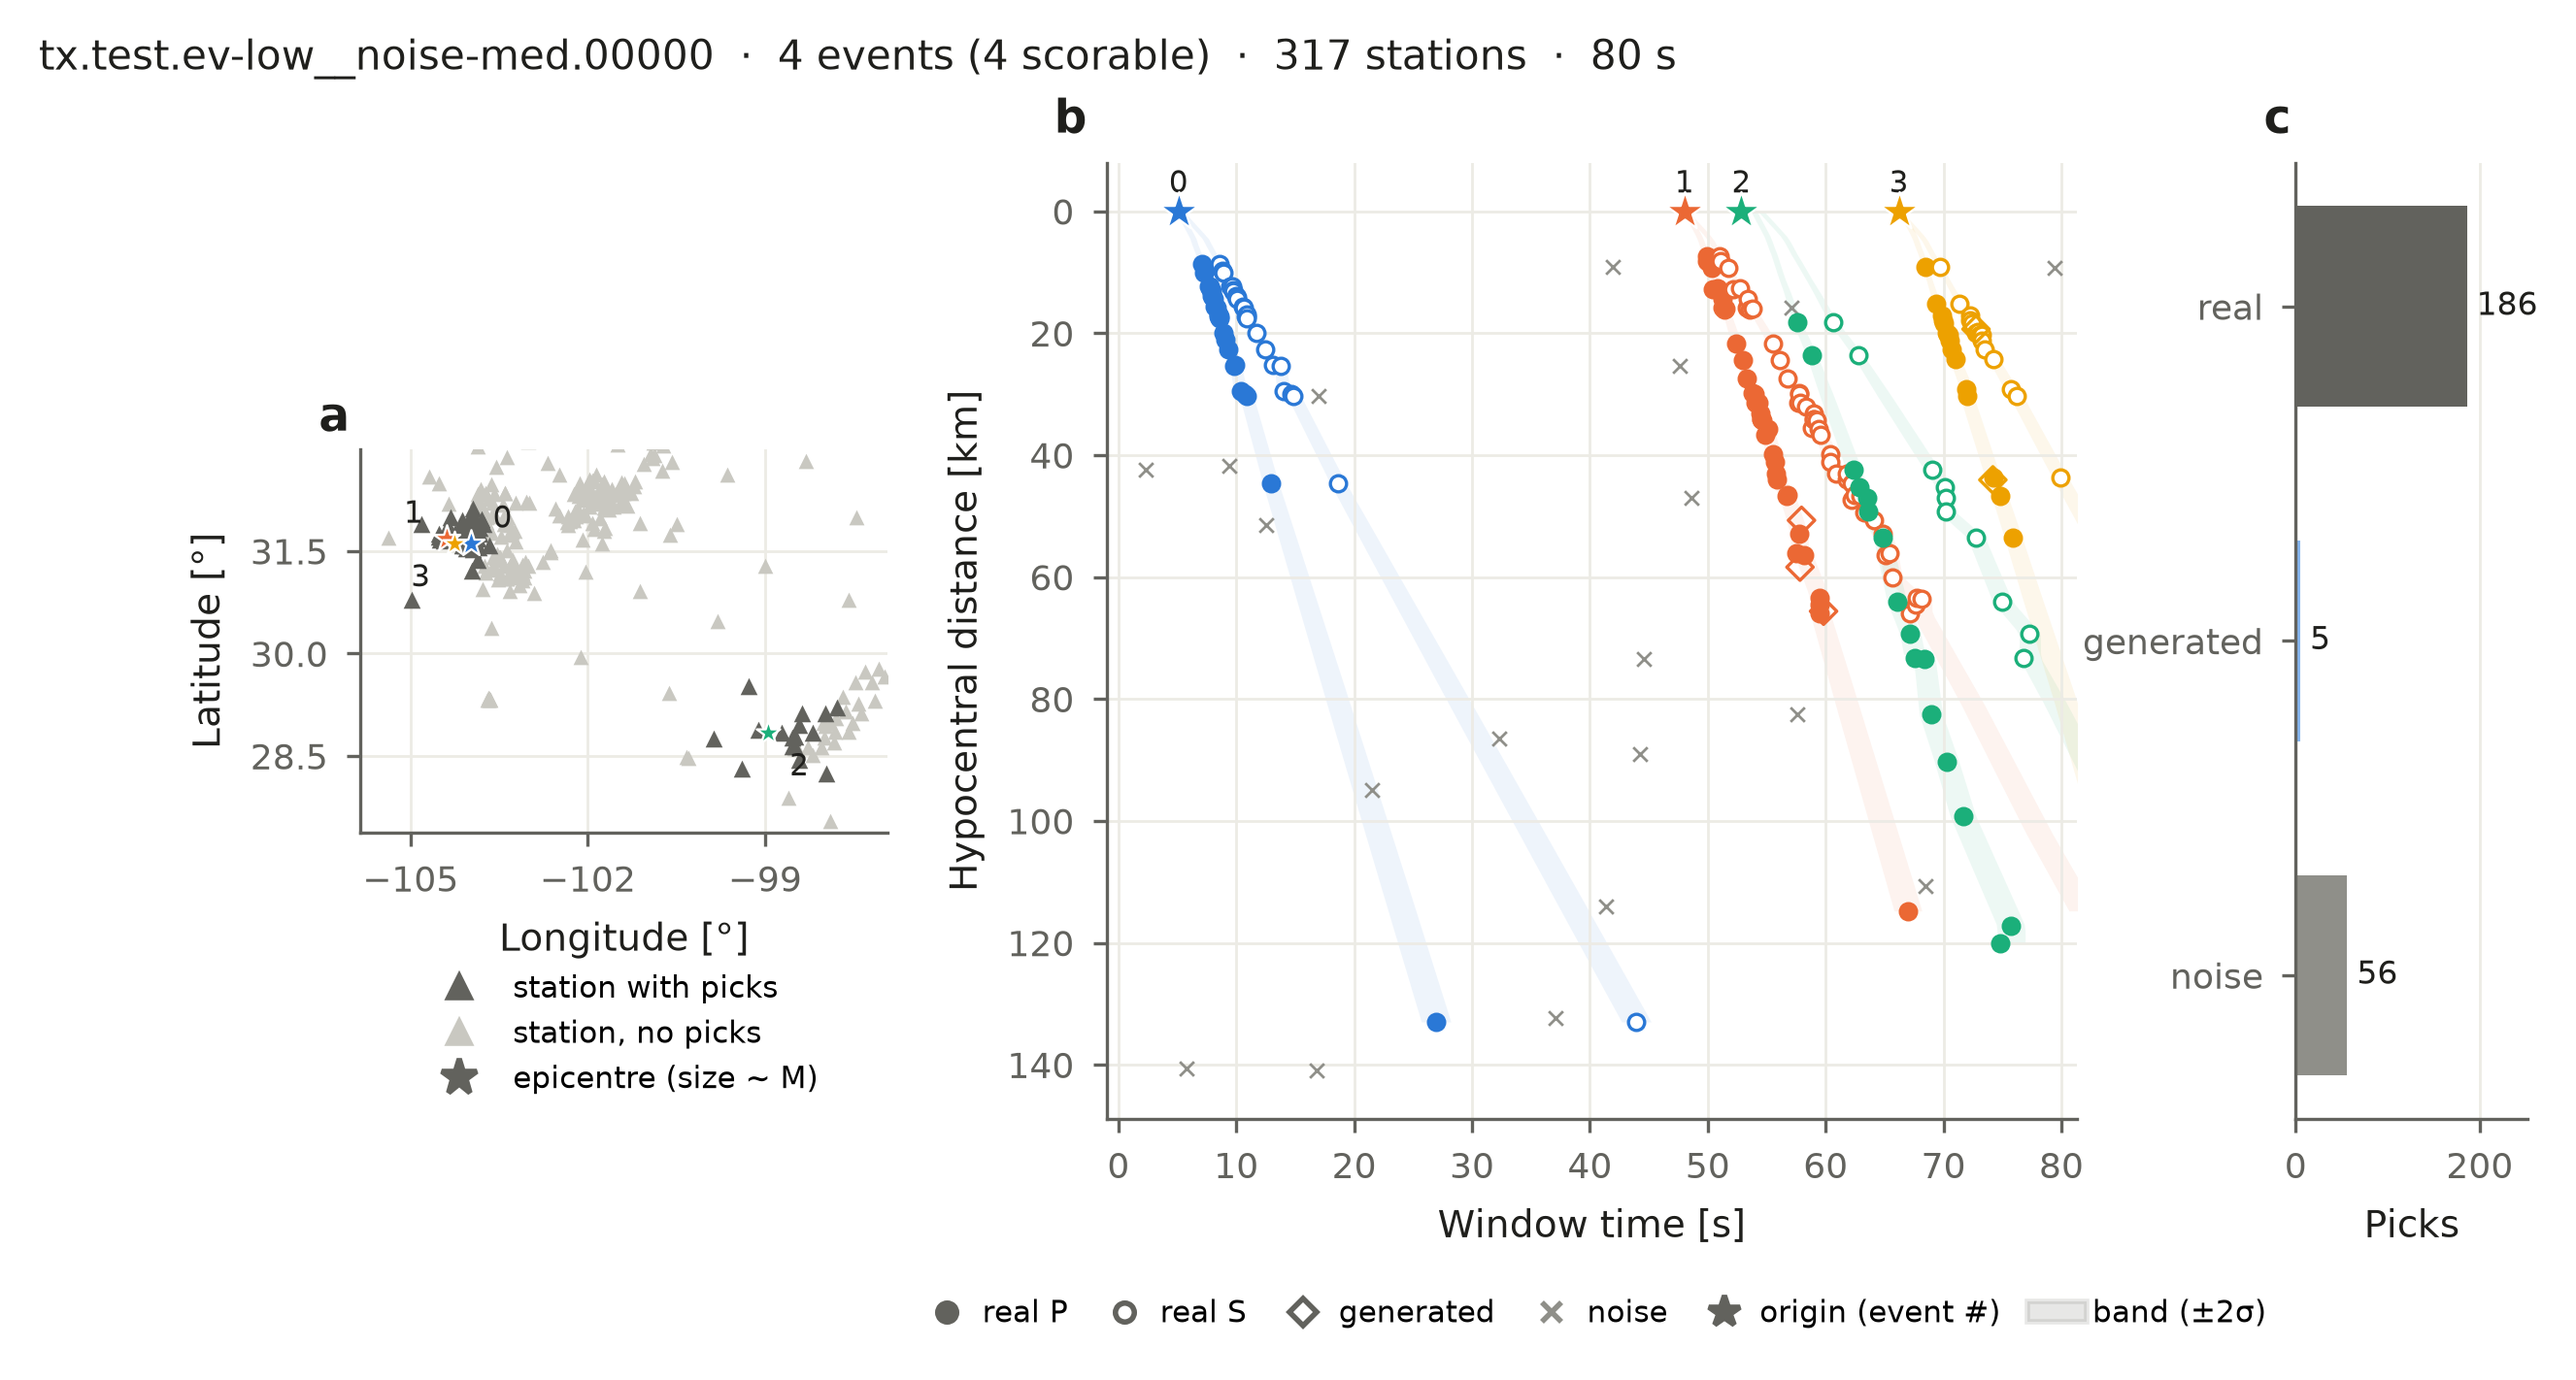
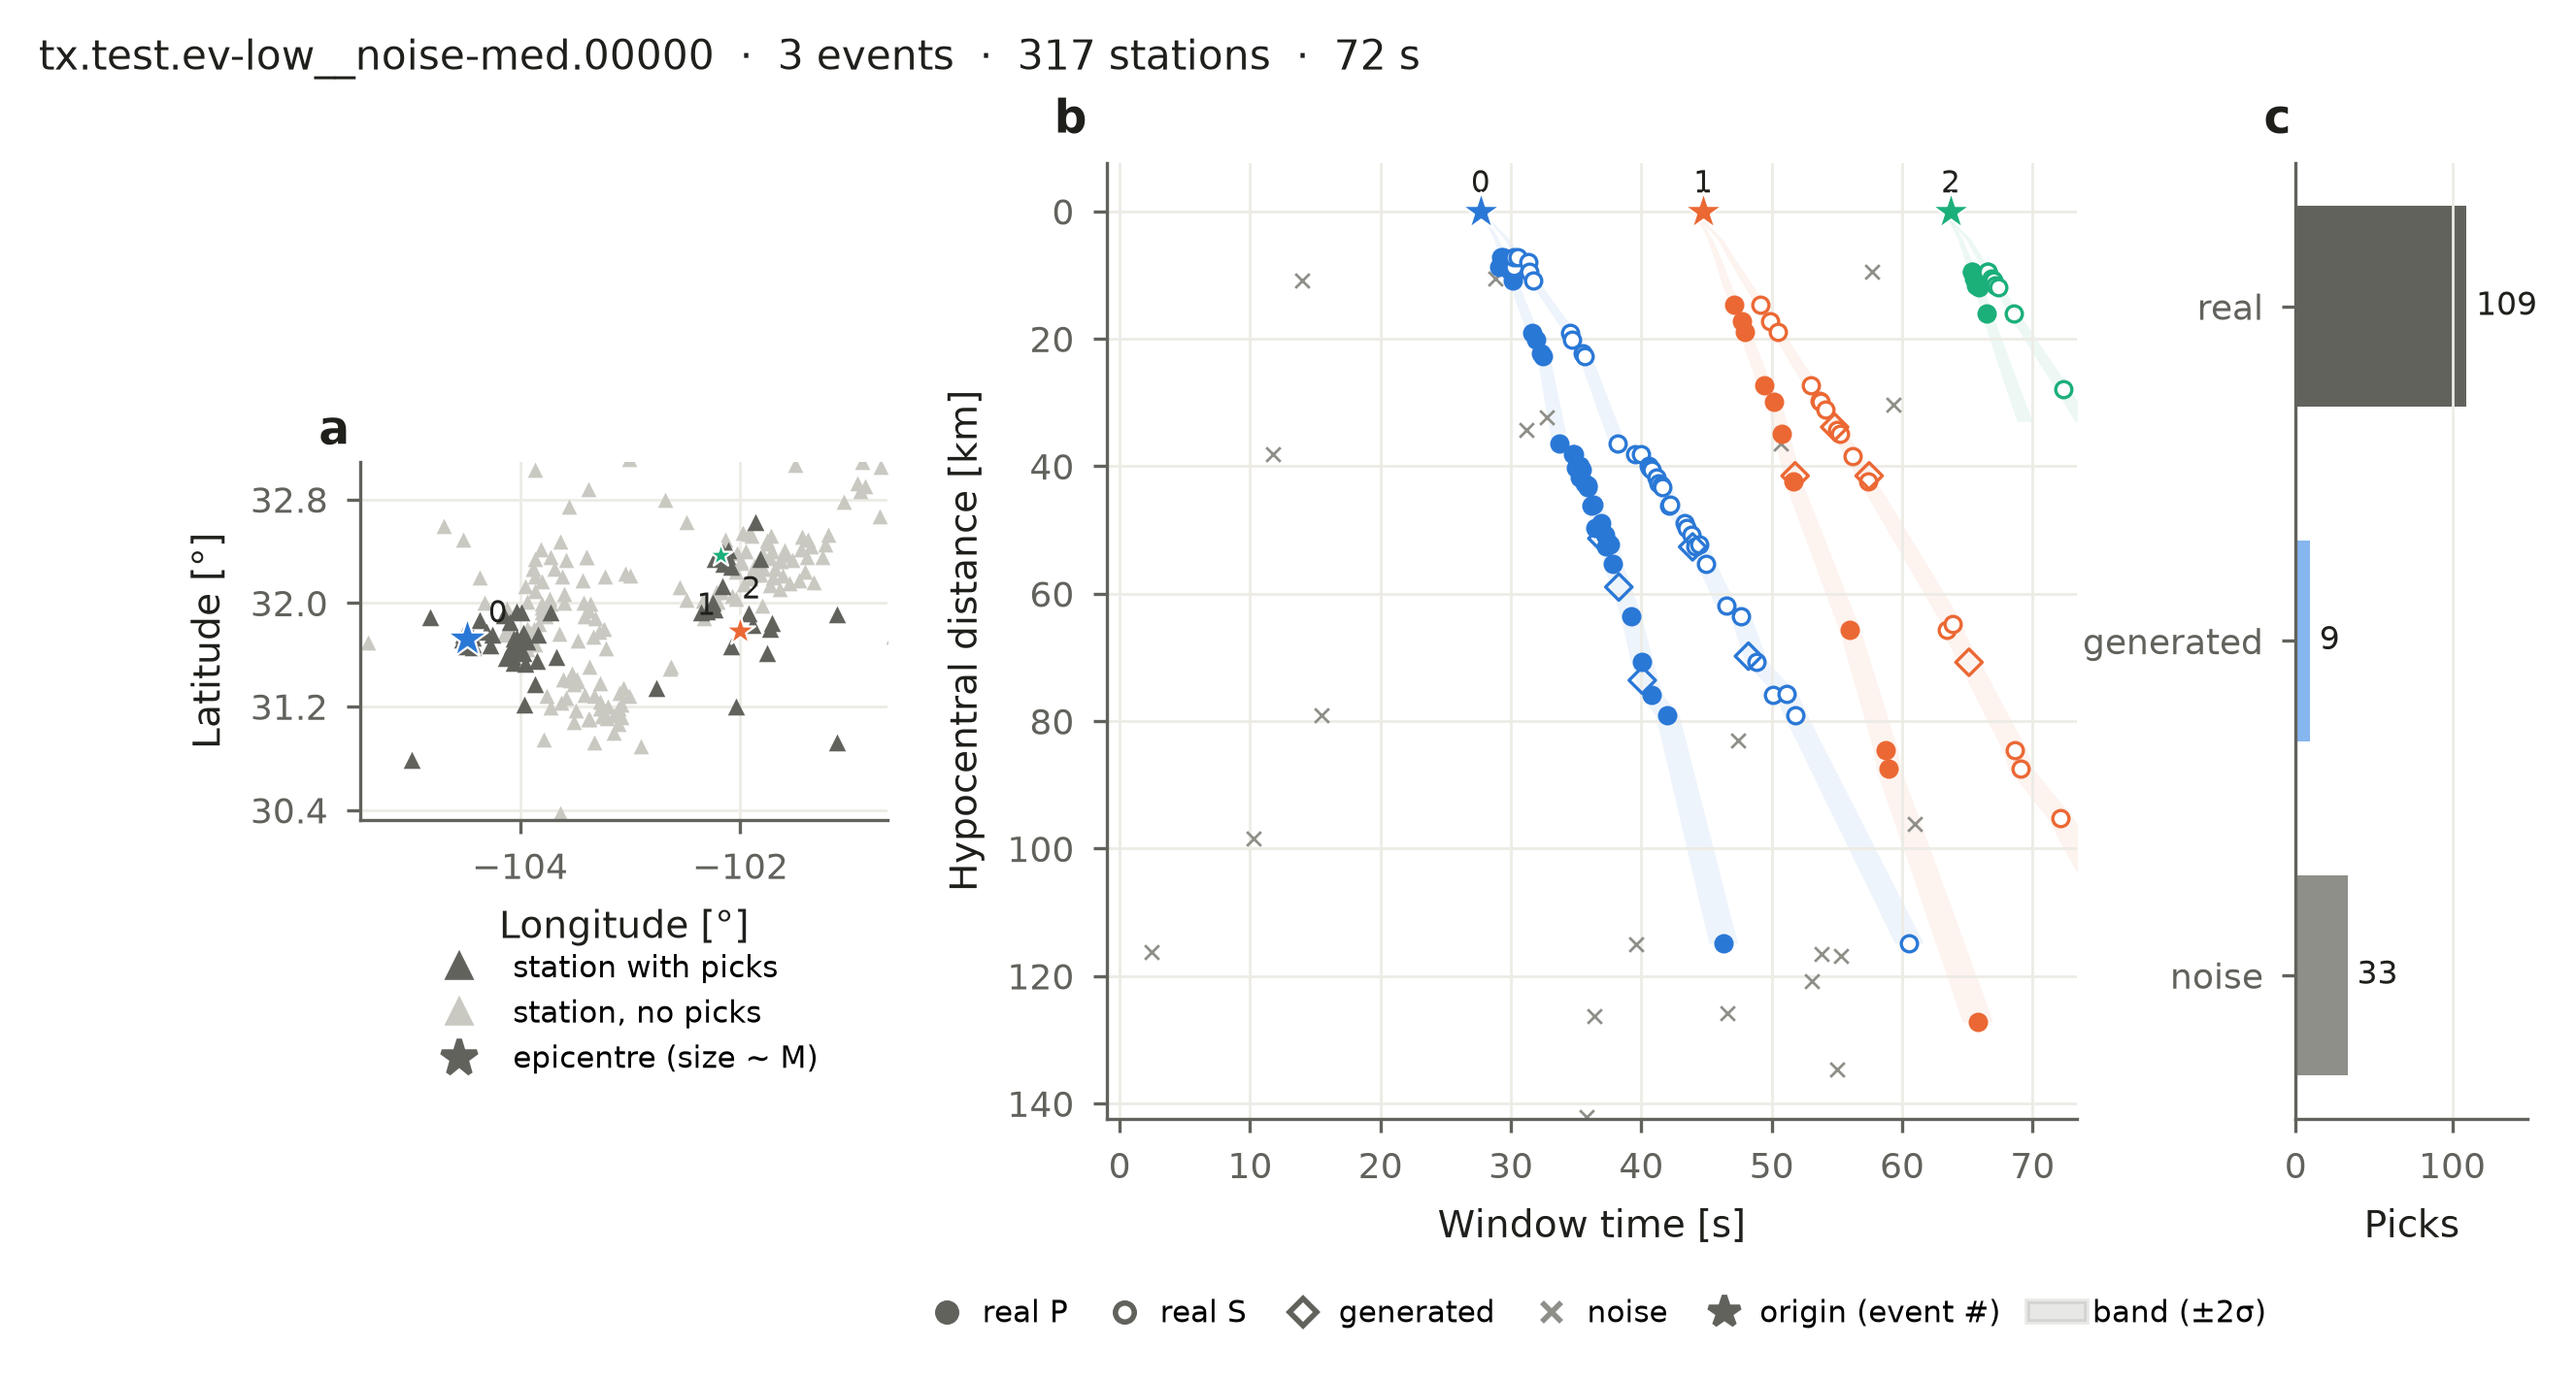
README links, license field

diff --git a/README.md b/README.md
@@ -4,7 +4,7 @@ A phase associator groups the P and S picks of a seismic network into earthquake
 thousands of association problems built from **real earthquakes and real picks**
 ([UTDQuake](https://huggingface.co/datasets/ecastillot/UTDQuake)), with the answer for every pick.
 
-![a BEPAD window](docs/figures/window_anatomy_tx.png)
+![a BEPAD window](https://raw.githubusercontent.com/ecastillot/BEPAD/main/docs/figures/window_anatomy_tx.png)
 
 *One window (Texas network): (a) earthquakes and stations, (b) every pick at its distance from
 its earthquake, (c) picks by type.*
@@ -34,7 +34,7 @@ bepad submit results/my-method --code associators/my-method    # opens a Hugging
 | **Associator authors** | fill in `bepad.Associator`, run on `test`, submit to the leaderboard — see *Contribute your associator* |
 | **Deep learning** | `bepad.torch.ReleaseWindowDataset` — see *Train a model* |
 
-Documentation: `docs/` (Read the Docs). Install: `pip install bepad` (or `pip install -e .` from
+Code: https://github.com/ecastillot/BEPAD · Data: https://huggingface.co/datasets/ecastillot/BEPAD · Documentation: `docs/` (Read the Docs). Install: `pip install bepad` (or `pip install -e .` from
 this folder; `.[dl]` for PyTorch, `.[build]` to rebuild the dataset).
 
 ## Repository
